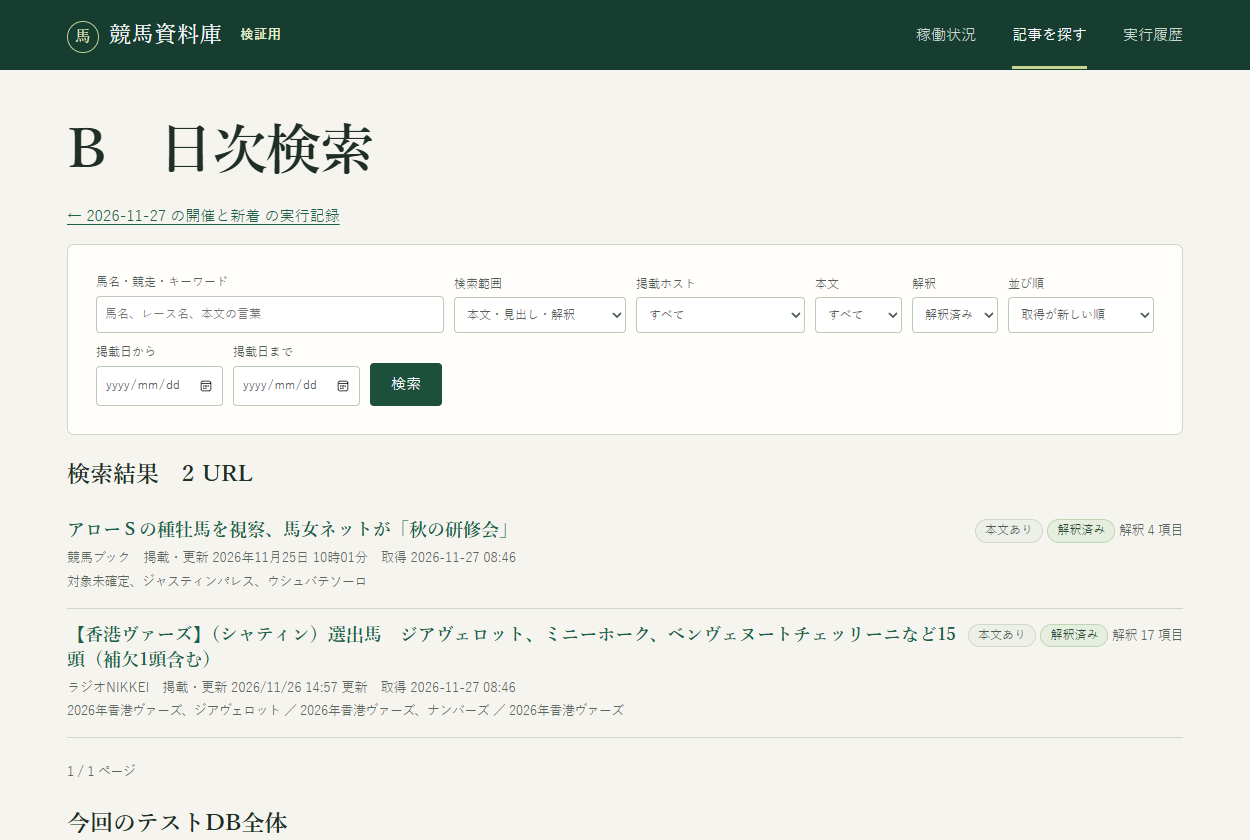
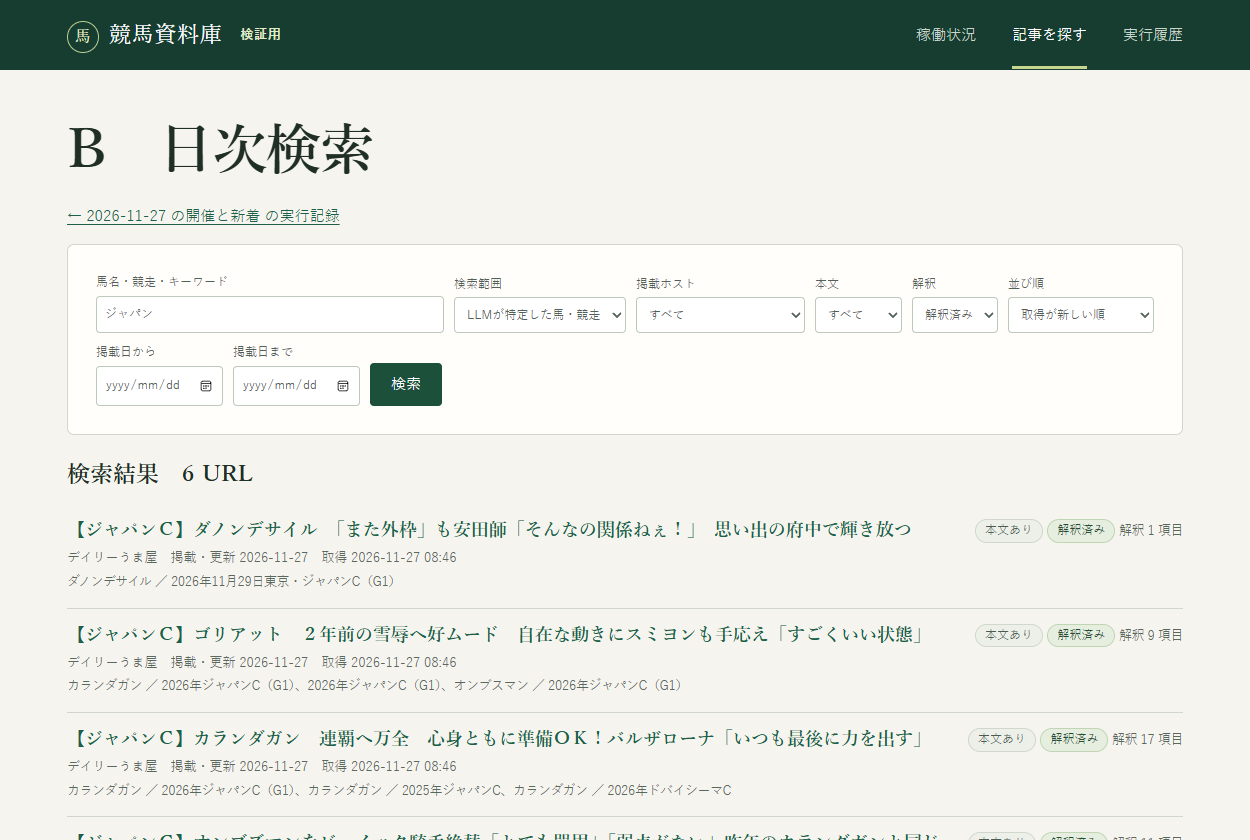
Verify both completed collections and all 2438 finite interpretation targets

diff --git a/README.md b/README.md
@@ -9,7 +9,7 @@
 [最新の実行指示書：2パターン試行とDashboard仕様検討](docs/instructions/2026-11/2026-11-27_nlp_two_pattern_dashboard_trial_instruction.md)  
 [先行する指示書：本番清掃・検証領域分離・私的利用方針](docs/instructions/2026-11/2026-11-27_nlp_production_cleanup_test_isolation_instruction.md)
 
-VM15では旧研究の1,303 URL・1,304版と旧56記事を私有バックアップへ復元検証済みです。本番DBを空にしてから、別DB・別資格情報・別Hermesで今回の2試行を開始しました。[検証用資料庫](http://192.168.0.14:8787/) ・ [本番の開始待ち画面](http://192.168.0.14:8786/) ・ [実機レポートと実画面](docs/reports/2026-11/2026-11-27_nlp_two_pattern_dashboard_trial_report.md)
+VM15では旧研究の1,303 URL・1,304版と旧56記事を私有バックアップへ復元検証済みです。本番DBを空にしてから、別DB・別資格情報・別Hermesで今回の2試行の収集を終えました。11月27日の収集終了時に全2,438版を有限解釈に登録し、現在の進捗を検証画面で確認できます。[検証用資料庫](http://192.168.0.14:8787/) ・ [本番の開始待ち画面](http://192.168.0.14:8786/) ・ [実機レポートと実画面](docs/reports/2026-11/2026-11-27_nlp_two_pattern_dashboard_trial_report.md)
 
 | 項目 | 今回整える状態 |
 |---|---|
